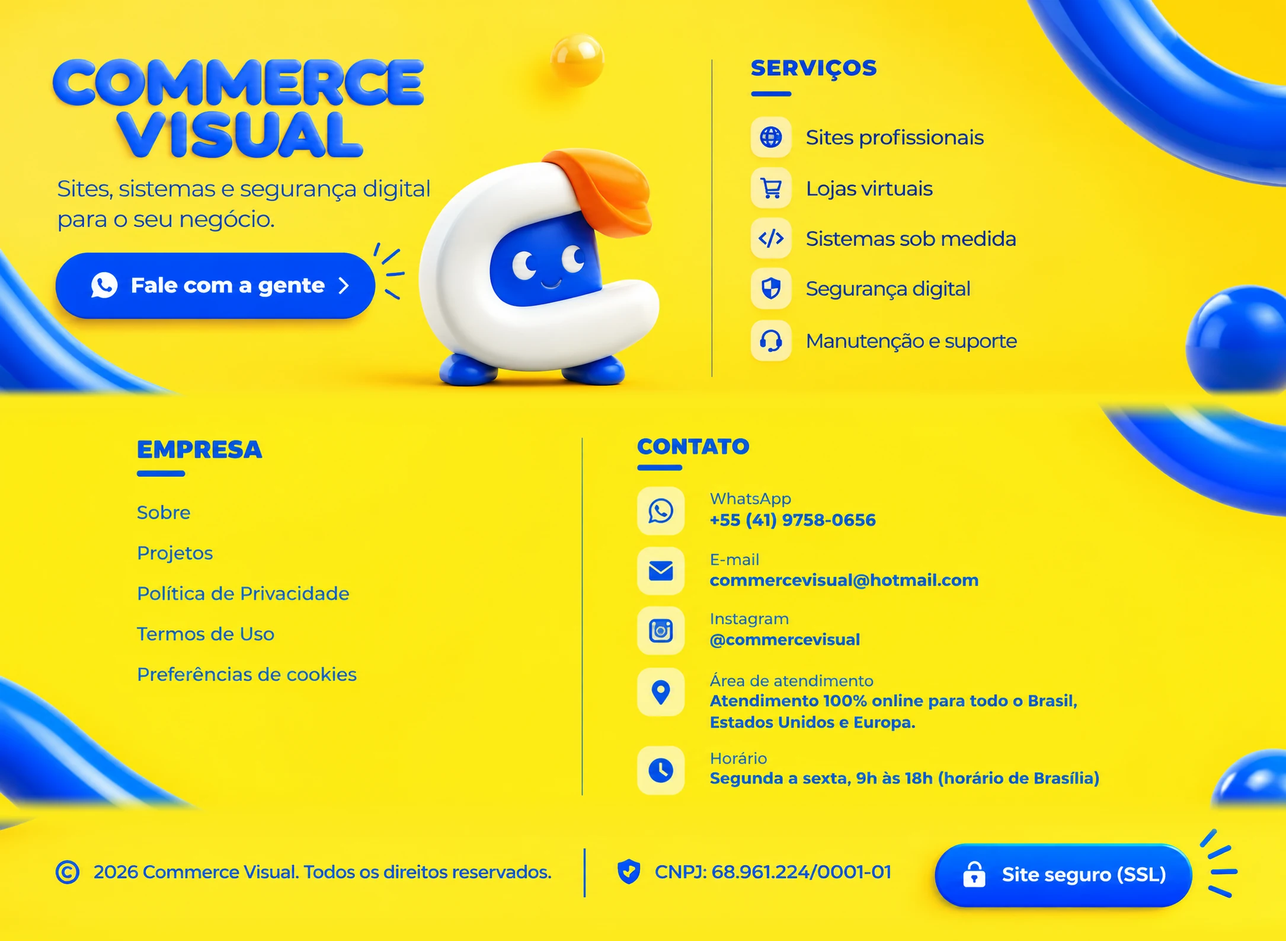
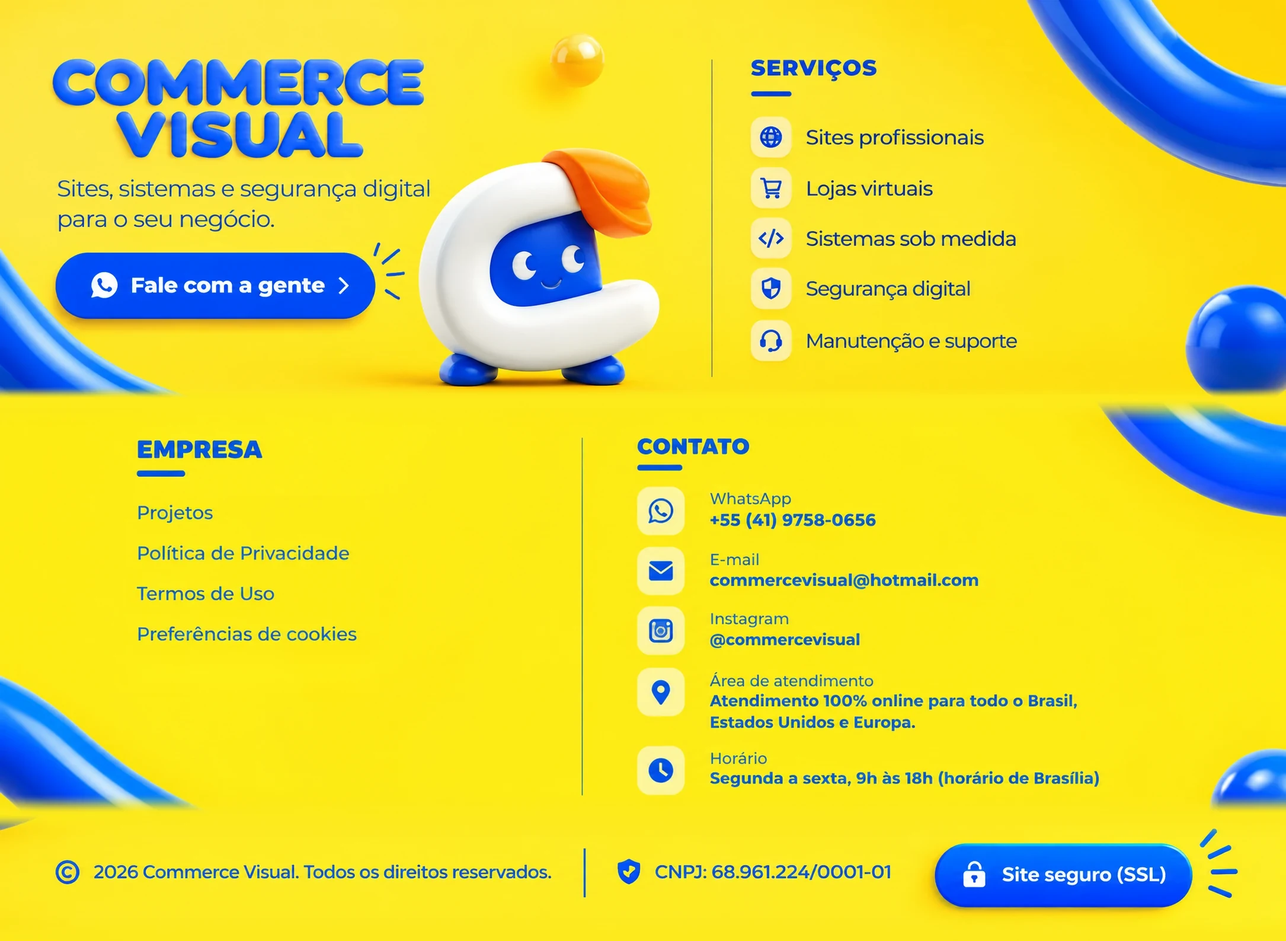
Remove o item "Sobre" do menu e do rodapé
- Menu do topo (arte desktop) e menu do celular sem "Sobre"
- Rodapé: "Sobre" removido da coluna Empresa (arte e versão celular)

Claude-Session: https://claude.ai/code/session_01116qkuPV9n5GHVeypah9k4

diff --git a/public/termos-de-uso/index.html b/public/termos-de-uso/index.html
@@ -565,11 +565,10 @@
       <a class="cvf-hs" href="/sistemas-sob-medida" aria-label="Sistemas sob medida" style="left:58.39%;top:23.25%;width:21.15%;height:4.22%"></a>
       <a class="cvf-hs" href="/seguranca-digital" aria-label="Segurança digital" style="left:58.39%;top:28.61%;width:21.15%;height:4.22%"></a>
       <a class="cvf-hs" href="/#servicos" aria-label="Manutenção e suporte" style="left:58.39%;top:34.09%;width:21.15%;height:4.35%"></a>
-      <a class="cvf-hs" href="/#como-funciona" aria-label="Sobre" style="left:10.28%;top:52.99%;width:5.21%;height:3.09%"></a>
-      <a class="cvf-hs" href="/#servicos" aria-label="Projetos" style="left:10.28%;top:57.28%;width:6.73%;height:3.02%"></a>
-      <a class="cvf-hs" href="/politica-de-privacidade" aria-label="Política de Privacidade" style="left:10.28%;top:61.50%;width:17.47%;height:3.21%"></a>
-      <a class="cvf-hs" href="/termos-de-uso" aria-label="Termos de Uso" style="left:10.28%;top:65.85%;width:11.75%;height:3.15%"></a>
-      <a class="cvf-hs" href="/politica-de-privacidade#cookies" aria-label="Preferências de cookies" style="left:10.28%;top:70.07%;width:17.97%;height:3.28%"></a>
+      <a class="cvf-hs" href="/#servicos" aria-label="Projetos" style="left:10.28%;top:53.00%;width:6.73%;height:3.02%"></a>
+      <a class="cvf-hs" href="/politica-de-privacidade" aria-label="Política de Privacidade" style="left:10.28%;top:57.22%;width:17.47%;height:3.21%"></a>
+      <a class="cvf-hs" href="/termos-de-uso" aria-label="Termos de Uso" style="left:10.28%;top:61.57%;width:11.75%;height:3.15%"></a>
+      <a class="cvf-hs" href="/politica-de-privacidade#cookies" aria-label="Preferências de cookies" style="left:10.28%;top:65.79%;width:17.97%;height:3.28%"></a>
       <a class="cvf-hs" href="https://wa.me/554197580656" target="_blank" rel="noopener noreferrer" aria-label="WhatsApp: +55 (41) 9758-0656" style="left:49.26%;top:51.61%;width:19.26%;height:5.29%"></a>
       <a class="cvf-hs" href="mailto:commercevisual@hotmail.com" aria-label="E-mail: commercevisual@hotmail.com" style="left:49.26%;top:57.97%;width:27.28%;height:5.23%"></a>
       <a class="cvf-hs" href="https://www.instagram.com/commercevisual/" target="_blank" rel="noopener noreferrer" aria-label="Instagram: @commercevisual" style="left:49.26%;top:64.21%;width:18.02%;height:5.55%"></a>
@@ -586,7 +585,6 @@
 
     <h3>Empresa</h3>
     <ul>
-      <li><a href="/#como-funciona">Sobre</a></li>
       <li><a href="/#servicos">Projetos</a></li>
       <li><a href="/politica-de-privacidade">Política de Privacidade</a></li>
       <li><a href="/termos-de-uso">Termos de Uso</a></li>

diff --git a/public/loja-virtual-para-confeitaria/index.html b/public/loja-virtual-para-confeitaria/index.html
@@ -374,11 +374,10 @@
       <a class="cvf-hs" href="/sistemas-sob-medida" aria-label="Sistemas sob medida" style="left:58.39%;top:23.25%;width:21.15%;height:4.22%"></a>
       <a class="cvf-hs" href="/seguranca-digital" aria-label="Segurança digital" style="left:58.39%;top:28.61%;width:21.15%;height:4.22%"></a>
       <a class="cvf-hs" href="/#servicos" aria-label="Manutenção e suporte" style="left:58.39%;top:34.09%;width:21.15%;height:4.35%"></a>
-      <a class="cvf-hs" href="/#como-funciona" aria-label="Sobre" style="left:10.28%;top:52.99%;width:5.21%;height:3.09%"></a>
-      <a class="cvf-hs" href="/#servicos" aria-label="Projetos" style="left:10.28%;top:57.28%;width:6.73%;height:3.02%"></a>
-      <a class="cvf-hs" href="/politica-de-privacidade" aria-label="Política de Privacidade" style="left:10.28%;top:61.50%;width:17.47%;height:3.21%"></a>
-      <a class="cvf-hs" href="/termos-de-uso" aria-label="Termos de Uso" style="left:10.28%;top:65.85%;width:11.75%;height:3.15%"></a>
-      <a class="cvf-hs" href="#cookies" aria-label="Preferências de cookies" style="left:10.28%;top:70.07%;width:17.97%;height:3.28%"></a>
+      <a class="cvf-hs" href="/#servicos" aria-label="Projetos" style="left:10.28%;top:53.00%;width:6.73%;height:3.02%"></a>
+      <a class="cvf-hs" href="/politica-de-privacidade" aria-label="Política de Privacidade" style="left:10.28%;top:57.22%;width:17.47%;height:3.21%"></a>
+      <a class="cvf-hs" href="/termos-de-uso" aria-label="Termos de Uso" style="left:10.28%;top:61.57%;width:11.75%;height:3.15%"></a>
+      <a class="cvf-hs" href="#cookies" aria-label="Preferências de cookies" style="left:10.28%;top:65.79%;width:17.97%;height:3.28%"></a>
       <a class="cvf-hs" href="https://wa.me/554197580656" target="_blank" rel="noopener noreferrer" aria-label="WhatsApp: +55 (41) 9758-0656" style="left:49.26%;top:51.61%;width:19.26%;height:5.29%"></a>
       <a class="cvf-hs" href="mailto:commercevisual@hotmail.com" aria-label="E-mail: commercevisual@hotmail.com" style="left:49.26%;top:57.97%;width:27.28%;height:5.23%"></a>
       <a class="cvf-hs" href="https://www.instagram.com/commercevisual/" target="_blank" rel="noopener noreferrer" aria-label="Instagram: @commercevisual" style="left:49.26%;top:64.21%;width:18.02%;height:5.55%"></a>
@@ -395,7 +394,6 @@
 
     <h3>Empresa</h3>
     <ul>
-      <li><a href="/#como-funciona">Sobre</a></li>
       <li><a href="/#servicos">Projetos</a></li>
       <li><a href="/politica-de-privacidade">Política de Privacidade</a></li>
       <li><a href="/termos-de-uso">Termos de Uso</a></li>

diff --git a/public/lojas-virtuais/index.html b/public/lojas-virtuais/index.html
@@ -382,11 +382,10 @@
       <a class="cvf-hs" href="/sistemas-sob-medida" aria-label="Sistemas sob medida" style="left:58.39%;top:23.25%;width:21.15%;height:4.22%"></a>
       <a class="cvf-hs" href="/seguranca-digital" aria-label="Segurança digital" style="left:58.39%;top:28.61%;width:21.15%;height:4.22%"></a>
       <a class="cvf-hs" href="/#servicos" aria-label="Manutenção e suporte" style="left:58.39%;top:34.09%;width:21.15%;height:4.35%"></a>
-      <a class="cvf-hs" href="/#como-funciona" aria-label="Sobre" style="left:10.28%;top:52.99%;width:5.21%;height:3.09%"></a>
-      <a class="cvf-hs" href="/#servicos" aria-label="Projetos" style="left:10.28%;top:57.28%;width:6.73%;height:3.02%"></a>
-      <a class="cvf-hs" href="/politica-de-privacidade" aria-label="Política de Privacidade" style="left:10.28%;top:61.50%;width:17.47%;height:3.21%"></a>
-      <a class="cvf-hs" href="/termos-de-uso" aria-label="Termos de Uso" style="left:10.28%;top:65.85%;width:11.75%;height:3.15%"></a>
-      <a class="cvf-hs" href="#cookies" aria-label="Preferências de cookies" style="left:10.28%;top:70.07%;width:17.97%;height:3.28%"></a>
+      <a class="cvf-hs" href="/#servicos" aria-label="Projetos" style="left:10.28%;top:53.00%;width:6.73%;height:3.02%"></a>
+      <a class="cvf-hs" href="/politica-de-privacidade" aria-label="Política de Privacidade" style="left:10.28%;top:57.22%;width:17.47%;height:3.21%"></a>
+      <a class="cvf-hs" href="/termos-de-uso" aria-label="Termos de Uso" style="left:10.28%;top:61.57%;width:11.75%;height:3.15%"></a>
+      <a class="cvf-hs" href="#cookies" aria-label="Preferências de cookies" style="left:10.28%;top:65.79%;width:17.97%;height:3.28%"></a>
       <a class="cvf-hs" href="https://wa.me/554197580656" target="_blank" rel="noopener noreferrer" aria-label="WhatsApp: +55 (41) 9758-0656" style="left:49.26%;top:51.61%;width:19.26%;height:5.29%"></a>
       <a class="cvf-hs" href="mailto:commercevisual@hotmail.com" aria-label="E-mail: commercevisual@hotmail.com" style="left:49.26%;top:57.97%;width:27.28%;height:5.23%"></a>
       <a class="cvf-hs" href="https://www.instagram.com/commercevisual/" target="_blank" rel="noopener noreferrer" aria-label="Instagram: @commercevisual" style="left:49.26%;top:64.21%;width:18.02%;height:5.55%"></a>
@@ -403,7 +402,6 @@
 
     <h3>Empresa</h3>
     <ul>
-      <li><a href="/#como-funciona">Sobre</a></li>
       <li><a href="/#servicos">Projetos</a></li>
       <li><a href="/politica-de-privacidade">Política de Privacidade</a></li>
       <li><a href="/termos-de-uso">Termos de Uso</a></li>

diff --git a/public/politica-de-privacidade/index.html b/public/politica-de-privacidade/index.html
@@ -602,11 +602,10 @@
       <a class="cvf-hs" href="/sistemas-sob-medida" aria-label="Sistemas sob medida" style="left:58.39%;top:23.25%;width:21.15%;height:4.22%"></a>
       <a class="cvf-hs" href="/seguranca-digital" aria-label="Segurança digital" style="left:58.39%;top:28.61%;width:21.15%;height:4.22%"></a>
       <a class="cvf-hs" href="/#servicos" aria-label="Manutenção e suporte" style="left:58.39%;top:34.09%;width:21.15%;height:4.35%"></a>
-      <a class="cvf-hs" href="/#como-funciona" aria-label="Sobre" style="left:10.28%;top:52.99%;width:5.21%;height:3.09%"></a>
-      <a class="cvf-hs" href="/#servicos" aria-label="Projetos" style="left:10.28%;top:57.28%;width:6.73%;height:3.02%"></a>
-      <a class="cvf-hs" href="/politica-de-privacidade" aria-label="Política de Privacidade" style="left:10.28%;top:61.50%;width:17.47%;height:3.21%"></a>
-      <a class="cvf-hs" href="/termos-de-uso" aria-label="Termos de Uso" style="left:10.28%;top:65.85%;width:11.75%;height:3.15%"></a>
-      <a class="cvf-hs" href="#cookies" aria-label="Preferências de cookies" style="left:10.28%;top:70.07%;width:17.97%;height:3.28%"></a>
+      <a class="cvf-hs" href="/#servicos" aria-label="Projetos" style="left:10.28%;top:53.00%;width:6.73%;height:3.02%"></a>
+      <a class="cvf-hs" href="/politica-de-privacidade" aria-label="Política de Privacidade" style="left:10.28%;top:57.22%;width:17.47%;height:3.21%"></a>
+      <a class="cvf-hs" href="/termos-de-uso" aria-label="Termos de Uso" style="left:10.28%;top:61.57%;width:11.75%;height:3.15%"></a>
+      <a class="cvf-hs" href="#cookies" aria-label="Preferências de cookies" style="left:10.28%;top:65.79%;width:17.97%;height:3.28%"></a>
       <a class="cvf-hs" href="https://wa.me/554197580656" target="_blank" rel="noopener noreferrer" aria-label="WhatsApp: +55 (41) 9758-0656" style="left:49.26%;top:51.61%;width:19.26%;height:5.29%"></a>
       <a class="cvf-hs" href="mailto:commercevisual@hotmail.com" aria-label="E-mail: commercevisual@hotmail.com" style="left:49.26%;top:57.97%;width:27.28%;height:5.23%"></a>
       <a class="cvf-hs" href="https://www.instagram.com/commercevisual/" target="_blank" rel="noopener noreferrer" aria-label="Instagram: @commercevisual" style="left:49.26%;top:64.21%;width:18.02%;height:5.55%"></a>
@@ -623,7 +622,6 @@
 
     <h3>Empresa</h3>
     <ul>
-      <li><a href="/#como-funciona">Sobre</a></li>
       <li><a href="/#servicos">Projetos</a></li>
       <li><a href="/politica-de-privacidade">Política de Privacidade</a></li>
       <li><a href="/termos-de-uso">Termos de Uso</a></li>

diff --git a/public/quanto-custa-um-site/index.html b/public/quanto-custa-um-site/index.html
@@ -381,11 +381,10 @@
       <a class="cvf-hs" href="/sistemas-sob-medida" aria-label="Sistemas sob medida" style="left:58.39%;top:23.25%;width:21.15%;height:4.22%"></a>
       <a class="cvf-hs" href="/seguranca-digital" aria-label="Segurança digital" style="left:58.39%;top:28.61%;width:21.15%;height:4.22%"></a>
       <a class="cvf-hs" href="/#servicos" aria-label="Manutenção e suporte" style="left:58.39%;top:34.09%;width:21.15%;height:4.35%"></a>
-      <a class="cvf-hs" href="/#como-funciona" aria-label="Sobre" style="left:10.28%;top:52.99%;width:5.21%;height:3.09%"></a>
-      <a class="cvf-hs" href="/#servicos" aria-label="Projetos" style="left:10.28%;top:57.28%;width:6.73%;height:3.02%"></a>
-      <a class="cvf-hs" href="/politica-de-privacidade" aria-label="Política de Privacidade" style="left:10.28%;top:61.50%;width:17.47%;height:3.21%"></a>
-      <a class="cvf-hs" href="/termos-de-uso" aria-label="Termos de Uso" style="left:10.28%;top:65.85%;width:11.75%;height:3.15%"></a>
-      <a class="cvf-hs" href="#cookies" aria-label="Preferências de cookies" style="left:10.28%;top:70.07%;width:17.97%;height:3.28%"></a>
+      <a class="cvf-hs" href="/#servicos" aria-label="Projetos" style="left:10.28%;top:53.00%;width:6.73%;height:3.02%"></a>
+      <a class="cvf-hs" href="/politica-de-privacidade" aria-label="Política de Privacidade" style="left:10.28%;top:57.22%;width:17.47%;height:3.21%"></a>
+      <a class="cvf-hs" href="/termos-de-uso" aria-label="Termos de Uso" style="left:10.28%;top:61.57%;width:11.75%;height:3.15%"></a>
+      <a class="cvf-hs" href="#cookies" aria-label="Preferências de cookies" style="left:10.28%;top:65.79%;width:17.97%;height:3.28%"></a>
       <a class="cvf-hs" href="https://wa.me/554197580656" target="_blank" rel="noopener noreferrer" aria-label="WhatsApp: +55 (41) 9758-0656" style="left:49.26%;top:51.61%;width:19.26%;height:5.29%"></a>
       <a class="cvf-hs" href="mailto:commercevisual@hotmail.com" aria-label="E-mail: commercevisual@hotmail.com" style="left:49.26%;top:57.97%;width:27.28%;height:5.23%"></a>
       <a class="cvf-hs" href="https://www.instagram.com/commercevisual/" target="_blank" rel="noopener noreferrer" aria-label="Instagram: @commercevisual" style="left:49.26%;top:64.21%;width:18.02%;height:5.55%"></a>
@@ -402,7 +401,6 @@
 
     <h3>Empresa</h3>
     <ul>
-      <li><a href="/#como-funciona">Sobre</a></li>
       <li><a href="/#servicos">Projetos</a></li>
       <li><a href="/politica-de-privacidade">Política de Privacidade</a></li>
       <li><a href="/termos-de-uso">Termos de Uso</a></li>

diff --git a/public/seguranca-digital/index.html b/public/seguranca-digital/index.html
@@ -382,11 +382,10 @@
       <a class="cvf-hs" href="/sistemas-sob-medida" aria-label="Sistemas sob medida" style="left:58.39%;top:23.25%;width:21.15%;height:4.22%"></a>
       <a class="cvf-hs" href="/seguranca-digital" aria-label="Segurança digital" style="left:58.39%;top:28.61%;width:21.15%;height:4.22%"></a>
       <a class="cvf-hs" href="/#servicos" aria-label="Manutenção e suporte" style="left:58.39%;top:34.09%;width:21.15%;height:4.35%"></a>
-      <a class="cvf-hs" href="/#como-funciona" aria-label="Sobre" style="left:10.28%;top:52.99%;width:5.21%;height:3.09%"></a>
-      <a class="cvf-hs" href="/#servicos" aria-label="Projetos" style="left:10.28%;top:57.28%;width:6.73%;height:3.02%"></a>
-      <a class="cvf-hs" href="/politica-de-privacidade" aria-label="Política de Privacidade" style="left:10.28%;top:61.50%;width:17.47%;height:3.21%"></a>
-      <a class="cvf-hs" href="/termos-de-uso" aria-label="Termos de Uso" style="left:10.28%;top:65.85%;width:11.75%;height:3.15%"></a>
-      <a class="cvf-hs" href="#cookies" aria-label="Preferências de cookies" style="left:10.28%;top:70.07%;width:17.97%;height:3.28%"></a>
+      <a class="cvf-hs" href="/#servicos" aria-label="Projetos" style="left:10.28%;top:53.00%;width:6.73%;height:3.02%"></a>
+      <a class="cvf-hs" href="/politica-de-privacidade" aria-label="Política de Privacidade" style="left:10.28%;top:57.22%;width:17.47%;height:3.21%"></a>
+      <a class="cvf-hs" href="/termos-de-uso" aria-label="Termos de Uso" style="left:10.28%;top:61.57%;width:11.75%;height:3.15%"></a>
+      <a class="cvf-hs" href="#cookies" aria-label="Preferências de cookies" style="left:10.28%;top:65.79%;width:17.97%;height:3.28%"></a>
       <a class="cvf-hs" href="https://wa.me/554197580656" target="_blank" rel="noopener noreferrer" aria-label="WhatsApp: +55 (41) 9758-0656" style="left:49.26%;top:51.61%;width:19.26%;height:5.29%"></a>
       <a class="cvf-hs" href="mailto:commercevisual@hotmail.com" aria-label="E-mail: commercevisual@hotmail.com" style="left:49.26%;top:57.97%;width:27.28%;height:5.23%"></a>
       <a class="cvf-hs" href="https://www.instagram.com/commercevisual/" target="_blank" rel="noopener noreferrer" aria-label="Instagram: @commercevisual" style="left:49.26%;top:64.21%;width:18.02%;height:5.55%"></a>
@@ -403,7 +402,6 @@
 
     <h3>Empresa</h3>
     <ul>
-      <li><a href="/#como-funciona">Sobre</a></li>
       <li><a href="/#servicos">Projetos</a></li>
       <li><a href="/politica-de-privacidade">Política de Privacidade</a></li>
       <li><a href="/termos-de-uso">Termos de Uso</a></li>

diff --git a/public/sistema-de-agendamento-para-barbearia/index.html b/public/sistema-de-agendamento-para-barbearia/index.html
@@ -378,11 +378,10 @@
       <a class="cvf-hs" href="/sistemas-sob-medida" aria-label="Sistemas sob medida" style="left:58.39%;top:23.25%;width:21.15%;height:4.22%"></a>
       <a class="cvf-hs" href="/seguranca-digital" aria-label="Segurança digital" style="left:58.39%;top:28.61%;width:21.15%;height:4.22%"></a>
       <a class="cvf-hs" href="/#servicos" aria-label="Manutenção e suporte" style="left:58.39%;top:34.09%;width:21.15%;height:4.35%"></a>
-      <a class="cvf-hs" href="/#como-funciona" aria-label="Sobre" style="left:10.28%;top:52.99%;width:5.21%;height:3.09%"></a>
-      <a class="cvf-hs" href="/#servicos" aria-label="Projetos" style="left:10.28%;top:57.28%;width:6.73%;height:3.02%"></a>
-      <a class="cvf-hs" href="/politica-de-privacidade" aria-label="Política de Privacidade" style="left:10.28%;top:61.50%;width:17.47%;height:3.21%"></a>
-      <a class="cvf-hs" href="/termos-de-uso" aria-label="Termos de Uso" style="left:10.28%;top:65.85%;width:11.75%;height:3.15%"></a>
-      <a class="cvf-hs" href="#cookies" aria-label="Preferências de cookies" style="left:10.28%;top:70.07%;width:17.97%;height:3.28%"></a>
+      <a class="cvf-hs" href="/#servicos" aria-label="Projetos" style="left:10.28%;top:53.00%;width:6.73%;height:3.02%"></a>
+      <a class="cvf-hs" href="/politica-de-privacidade" aria-label="Política de Privacidade" style="left:10.28%;top:57.22%;width:17.47%;height:3.21%"></a>
+      <a class="cvf-hs" href="/termos-de-uso" aria-label="Termos de Uso" style="left:10.28%;top:61.57%;width:11.75%;height:3.15%"></a>
+      <a class="cvf-hs" href="#cookies" aria-label="Preferências de cookies" style="left:10.28%;top:65.79%;width:17.97%;height:3.28%"></a>
       <a class="cvf-hs" href="https://wa.me/554197580656" target="_blank" rel="noopener noreferrer" aria-label="WhatsApp: +55 (41) 9758-0656" style="left:49.26%;top:51.61%;width:19.26%;height:5.29%"></a>
       <a class="cvf-hs" href="mailto:commercevisual@hotmail.com" aria-label="E-mail: commercevisual@hotmail.com" style="left:49.26%;top:57.97%;width:27.28%;height:5.23%"></a>
       <a class="cvf-hs" href="https://www.instagram.com/commercevisual/" target="_blank" rel="noopener noreferrer" aria-label="Instagram: @commercevisual" style="left:49.26%;top:64.21%;width:18.02%;height:5.55%"></a>
@@ -399,7 +398,6 @@
 
     <h3>Empresa</h3>
     <ul>
-      <li><a href="/#como-funciona">Sobre</a></li>
       <li><a href="/#servicos">Projetos</a></li>
       <li><a href="/politica-de-privacidade">Política de Privacidade</a></li>
       <li><a href="/termos-de-uso">Termos de Uso</a></li>

diff --git a/public/sistemas-sob-medida/index.html b/public/sistemas-sob-medida/index.html
@@ -382,11 +382,10 @@
       <a class="cvf-hs" href="/sistemas-sob-medida" aria-label="Sistemas sob medida" style="left:58.39%;top:23.25%;width:21.15%;height:4.22%"></a>
       <a class="cvf-hs" href="/seguranca-digital" aria-label="Segurança digital" style="left:58.39%;top:28.61%;width:21.15%;height:4.22%"></a>
       <a class="cvf-hs" href="/#servicos" aria-label="Manutenção e suporte" style="left:58.39%;top:34.09%;width:21.15%;height:4.35%"></a>
-      <a class="cvf-hs" href="/#como-funciona" aria-label="Sobre" style="left:10.28%;top:52.99%;width:5.21%;height:3.09%"></a>
-      <a class="cvf-hs" href="/#servicos" aria-label="Projetos" style="left:10.28%;top:57.28%;width:6.73%;height:3.02%"></a>
-      <a class="cvf-hs" href="/politica-de-privacidade" aria-label="Política de Privacidade" style="left:10.28%;top:61.50%;width:17.47%;height:3.21%"></a>
-      <a class="cvf-hs" href="/termos-de-uso" aria-label="Termos de Uso" style="left:10.28%;top:65.85%;width:11.75%;height:3.15%"></a>
-      <a class="cvf-hs" href="#cookies" aria-label="Preferências de cookies" style="left:10.28%;top:70.07%;width:17.97%;height:3.28%"></a>
+      <a class="cvf-hs" href="/#servicos" aria-label="Projetos" style="left:10.28%;top:53.00%;width:6.73%;height:3.02%"></a>
+      <a class="cvf-hs" href="/politica-de-privacidade" aria-label="Política de Privacidade" style="left:10.28%;top:57.22%;width:17.47%;height:3.21%"></a>
+      <a class="cvf-hs" href="/termos-de-uso" aria-label="Termos de Uso" style="left:10.28%;top:61.57%;width:11.75%;height:3.15%"></a>
+      <a class="cvf-hs" href="#cookies" aria-label="Preferências de cookies" style="left:10.28%;top:65.79%;width:17.97%;height:3.28%"></a>
       <a class="cvf-hs" href="https://wa.me/554197580656" target="_blank" rel="noopener noreferrer" aria-label="WhatsApp: +55 (41) 9758-0656" style="left:49.26%;top:51.61%;width:19.26%;height:5.29%"></a>
       <a class="cvf-hs" href="mailto:commercevisual@hotmail.com" aria-label="E-mail: commercevisual@hotmail.com" style="left:49.26%;top:57.97%;width:27.28%;height:5.23%"></a>
       <a class="cvf-hs" href="https://www.instagram.com/commercevisual/" target="_blank" rel="noopener noreferrer" aria-label="Instagram: @commercevisual" style="left:49.26%;top:64.21%;width:18.02%;height:5.55%"></a>
@@ -403,7 +402,6 @@
 
     <h3>Empresa</h3>
     <ul>
-      <li><a href="/#como-funciona">Sobre</a></li>
       <li><a href="/#servicos">Projetos</a></li>
       <li><a href="/politica-de-privacidade">Política de Privacidade</a></li>
       <li><a href="/termos-de-uso">Termos de Uso</a></li>

diff --git a/public/site-para-clinica-de-estetica/index.html b/public/site-para-clinica-de-estetica/index.html
@@ -378,11 +378,10 @@
       <a class="cvf-hs" href="/sistemas-sob-medida" aria-label="Sistemas sob medida" style="left:58.39%;top:23.25%;width:21.15%;height:4.22%"></a>
       <a class="cvf-hs" href="/seguranca-digital" aria-label="Segurança digital" style="left:58.39%;top:28.61%;width:21.15%;height:4.22%"></a>
       <a class="cvf-hs" href="/#servicos" aria-label="Manutenção e suporte" style="left:58.39%;top:34.09%;width:21.15%;height:4.35%"></a>
-      <a class="cvf-hs" href="/#como-funciona" aria-label="Sobre" style="left:10.28%;top:52.99%;width:5.21%;height:3.09%"></a>
-      <a class="cvf-hs" href="/#servicos" aria-label="Projetos" style="left:10.28%;top:57.28%;width:6.73%;height:3.02%"></a>
-      <a class="cvf-hs" href="/politica-de-privacidade" aria-label="Política de Privacidade" style="left:10.28%;top:61.50%;width:17.47%;height:3.21%"></a>
-      <a class="cvf-hs" href="/termos-de-uso" aria-label="Termos de Uso" style="left:10.28%;top:65.85%;width:11.75%;height:3.15%"></a>
-      <a class="cvf-hs" href="#cookies" aria-label="Preferências de cookies" style="left:10.28%;top:70.07%;width:17.97%;height:3.28%"></a>
+      <a class="cvf-hs" href="/#servicos" aria-label="Projetos" style="left:10.28%;top:53.00%;width:6.73%;height:3.02%"></a>
+      <a class="cvf-hs" href="/politica-de-privacidade" aria-label="Política de Privacidade" style="left:10.28%;top:57.22%;width:17.47%;height:3.21%"></a>
+      <a class="cvf-hs" href="/termos-de-uso" aria-label="Termos de Uso" style="left:10.28%;top:61.57%;width:11.75%;height:3.15%"></a>
+      <a class="cvf-hs" href="#cookies" aria-label="Preferências de cookies" style="left:10.28%;top:65.79%;width:17.97%;height:3.28%"></a>
       <a class="cvf-hs" href="https://wa.me/554197580656" target="_blank" rel="noopener noreferrer" aria-label="WhatsApp: +55 (41) 9758-0656" style="left:49.26%;top:51.61%;width:19.26%;height:5.29%"></a>
       <a class="cvf-hs" href="mailto:commercevisual@hotmail.com" aria-label="E-mail: commercevisual@hotmail.com" style="left:49.26%;top:57.97%;width:27.28%;height:5.23%"></a>
       <a class="cvf-hs" href="https://www.instagram.com/commercevisual/" target="_blank" rel="noopener noreferrer" aria-label="Instagram: @commercevisual" style="left:49.26%;top:64.21%;width:18.02%;height:5.55%"></a>
@@ -399,7 +398,6 @@
 
     <h3>Empresa</h3>
     <ul>
-      <li><a href="/#como-funciona">Sobre</a></li>
       <li><a href="/#servicos">Projetos</a></li>
       <li><a href="/politica-de-privacidade">Política de Privacidade</a></li>
       <li><a href="/termos-de-uso">Termos de Uso</a></li>

diff --git a/public/sites-profissionais/index.html b/public/sites-profissionais/index.html
@@ -382,11 +382,10 @@
       <a class="cvf-hs" href="/sistemas-sob-medida" aria-label="Sistemas sob medida" style="left:58.39%;top:23.25%;width:21.15%;height:4.22%"></a>
       <a class="cvf-hs" href="/seguranca-digital" aria-label="Segurança digital" style="left:58.39%;top:28.61%;width:21.15%;height:4.22%"></a>
       <a class="cvf-hs" href="/#servicos" aria-label="Manutenção e suporte" style="left:58.39%;top:34.09%;width:21.15%;height:4.35%"></a>
-      <a class="cvf-hs" href="/#como-funciona" aria-label="Sobre" style="left:10.28%;top:52.99%;width:5.21%;height:3.09%"></a>
-      <a class="cvf-hs" href="/#servicos" aria-label="Projetos" style="left:10.28%;top:57.28%;width:6.73%;height:3.02%"></a>
-      <a class="cvf-hs" href="/politica-de-privacidade" aria-label="Política de Privacidade" style="left:10.28%;top:61.50%;width:17.47%;height:3.21%"></a>
-      <a class="cvf-hs" href="/termos-de-uso" aria-label="Termos de Uso" style="left:10.28%;top:65.85%;width:11.75%;height:3.15%"></a>
-      <a class="cvf-hs" href="#cookies" aria-label="Preferências de cookies" style="left:10.28%;top:70.07%;width:17.97%;height:3.28%"></a>
+      <a class="cvf-hs" href="/#servicos" aria-label="Projetos" style="left:10.28%;top:53.00%;width:6.73%;height:3.02%"></a>
+      <a class="cvf-hs" href="/politica-de-privacidade" aria-label="Política de Privacidade" style="left:10.28%;top:57.22%;width:17.47%;height:3.21%"></a>
+      <a class="cvf-hs" href="/termos-de-uso" aria-label="Termos de Uso" style="left:10.28%;top:61.57%;width:11.75%;height:3.15%"></a>
+      <a class="cvf-hs" href="#cookies" aria-label="Preferências de cookies" style="left:10.28%;top:65.79%;width:17.97%;height:3.28%"></a>
       <a class="cvf-hs" href="https://wa.me/554197580656" target="_blank" rel="noopener noreferrer" aria-label="WhatsApp: +55 (41) 9758-0656" style="left:49.26%;top:51.61%;width:19.26%;height:5.29%"></a>
       <a class="cvf-hs" href="mailto:commercevisual@hotmail.com" aria-label="E-mail: commercevisual@hotmail.com" style="left:49.26%;top:57.97%;width:27.28%;height:5.23%"></a>
       <a class="cvf-hs" href="https://www.instagram.com/commercevisual/" target="_blank" rel="noopener noreferrer" aria-label="Instagram: @commercevisual" style="left:49.26%;top:64.21%;width:18.02%;height:5.55%"></a>
@@ -403,7 +402,6 @@
 
     <h3>Empresa</h3>
     <ul>
-      <li><a href="/#como-funciona">Sobre</a></li>
       <li><a href="/#servicos">Projetos</a></li>
       <li><a href="/politica-de-privacidade">Política de Privacidade</a></li>
       <li><a href="/termos-de-uso">Termos de Uso</a></li>

diff --git a/src/components/Footer.tsx b/src/components/Footer.tsx
@@ -18,11 +18,10 @@ const LINKS: Hotspot[] = [
     { label: "Sistemas sob medida", href: "/sistemas-sob-medida", x1: 1267, y1: 369, x2: 1726, y2: 436 },
     { label: "Segurança digital", href: "/seguranca-digital", x1: 1267, y1: 454, x2: 1726, y2: 521 },
     { label: "Manutenção e suporte", href: "#servicos", x1: 1267, y1: 541, x2: 1726, y2: 610 },
-    { label: "Sobre", href: "#como-funciona", x1: 223, y1: 841, x2: 336, y2: 890 },
-    { label: "Projetos", href: "#servicos", x1: 223, y1: 909, x2: 369, y2: 957 },
-    { label: "Política de Privacidade", href: "/politica-de-privacidade", x1: 223, y1: 976, x2: 602, y2: 1027 },
-    { label: "Termos de Uso", href: "/termos-de-uso", x1: 223, y1: 1045, x2: 478, y2: 1095 },
-    { label: "Preferências de cookies", href: "/politica-de-privacidade#cookies", x1: 223, y1: 1112, x2: 613, y2: 1164 },
+    { label: "Projetos", href: "#servicos", x1: 223, y1: 841, x2: 369, y2: 889 },
+    { label: "Política de Privacidade", href: "/politica-de-privacidade", x1: 223, y1: 908, x2: 602, y2: 959 },
+    { label: "Termos de Uso", href: "/termos-de-uso", x1: 223, y1: 977, x2: 478, y2: 1027 },
+    { label: "Preferências de cookies", href: "/politica-de-privacidade#cookies", x1: 223, y1: 1044, x2: 613, y2: 1096 },
     { label: "WhatsApp: +55 (41) 9758-0656", href: WPP, x1: 1069, y1: 819, x2: 1487, y2: 903 },
     { label: "E-mail: commercevisual@hotmail.com", href: "mailto:commercevisual@hotmail.com", x1: 1069, y1: 920, x2: 1661, y2: 1003 },
     { label: "Instagram: @commercevisual", href: "https://www.instagram.com/commercevisual/", x1: 1069, y1: 1019, x2: 1460, y2: 1107 },
@@ -81,7 +80,6 @@ export const Footer: React.FC = () => (
 
       <h3>Empresa</h3>
       <ul>
-        <li><a href="#como-funciona">Sobre</a></li>
         <li><a href="#servicos">Projetos</a></li>
         <li><a href="/politica-de-privacidade">Política de Privacidade</a></li>
         <li><a href="/termos-de-uso">Termos de Uso</a></li>

diff --git a/src/components/CvHome.tsx b/src/components/CvHome.tsx
@@ -81,7 +81,6 @@ const MenuCelular: React.FC<{ onClose: () => void }> = ({ onClose }) => {
     { href: '#inicio', label: 'Início', d: <><path d="M3 11 12 4l9 7" /><path d="M5 10v10h14V10" /></>, atual: true },
     { href: '#servicos', label: 'Serviços', d: <><rect x="3" y="4" width="18" height="13" rx="2" /><path d="M8 21h8M12 17v4" /></> },
     { href: '#servicos', label: 'Projetos', d: <path d="M3 7h6l2 2h10v10H3z" /> },
-    { href: '#como-funciona', label: 'Sobre', d: <><circle cx="12" cy="8" r="4" /><path d="M4 21a8 8 0 0 1 16 0" /></> },
   ];
 
   return (
@@ -129,7 +128,6 @@ export const CvHero: React.FC = () => {
             { label: 'Início', href: '#inicio', x1: 405, y1: 38, x2: 478, y2: 80 },
             { label: 'Serviços', href: '#servicos', x1: 522, y1: 38, x2: 620, y2: 80 },
             { label: 'Projetos', href: '#servicos', x1: 660, y1: 38, x2: 756, y2: 80 },
-            { label: 'Sobre', href: '#como-funciona', x1: 798, y1: 38, x2: 870, y2: 80 },
             { label: 'Vamos conversar no WhatsApp', href: WPP, x1: 1330, y1: 27, x2: 1620, y2: 88 },
             { label: 'Quero meu projeto', href: WPP, x1: 66, y1: 694, x2: 418, y2: 766 },
             { label: 'Conheça nossos serviços', href: '#servicos', x1: 452, y1: 708, x2: 684, y2: 750 },
